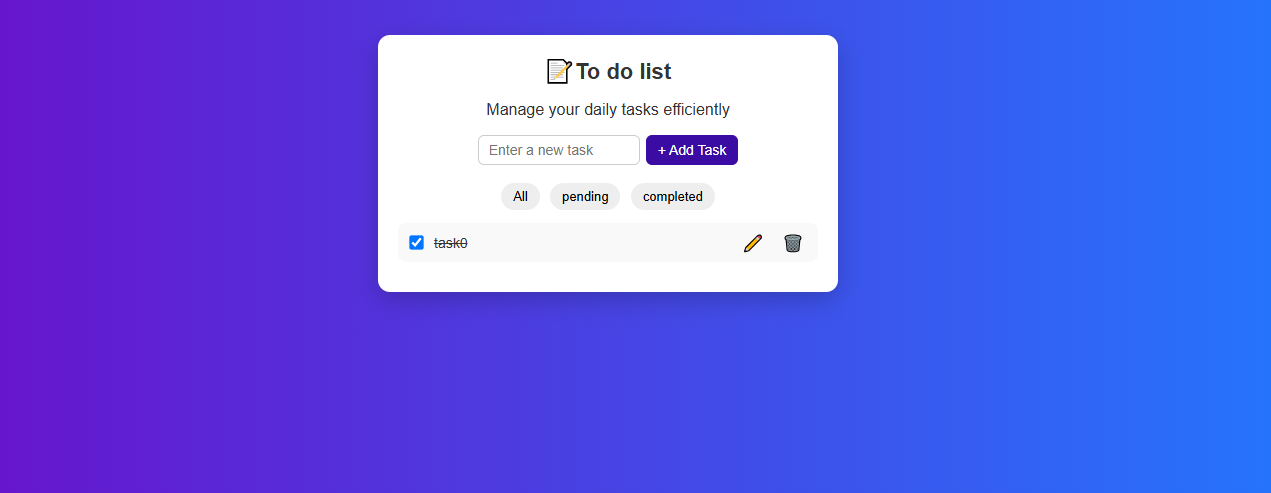
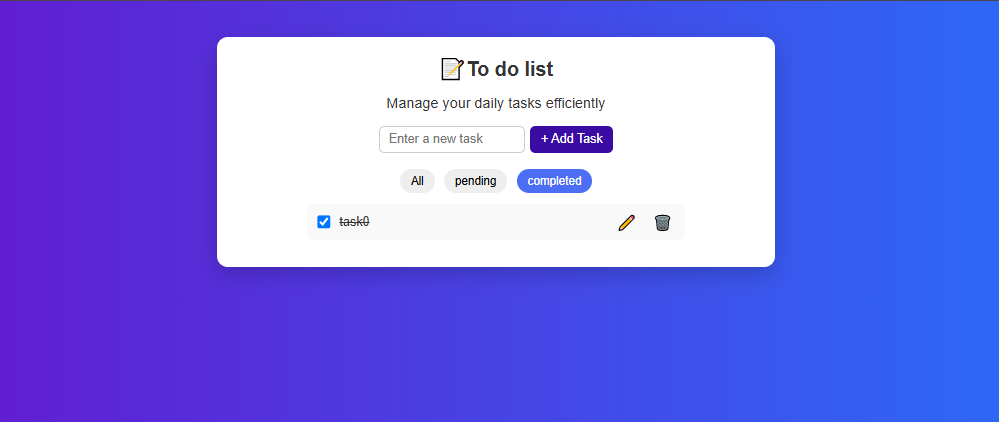
final

Changed region(s): [[0.2172, 0.0616, 0.7758, 0.6777], [0.3724, 0.1232, 0.6206, 0.4621]]

diff --git a/script.js b/script.js
@@ -1,101 +1,120 @@
-let tasks = [];
+let tasks = JSON.parse(localStorage.getItem('tasks')) || [];
 let filter = 'all';
 
+function saveTasks() {
+  localStorage.setItem('tasks', JSON.stringify(tasks));
+}
+
 function addtask() {
-    const input = document.getElementById('task-input');
-    const taskText = input.value.trim();
-    if (taskText) {
-        tasks.push({ text: taskText, completed: false });
-        input.value = "";
-        renderTasks();
-    }
+  const input = document.getElementById('task-input');
+  const taskText = input.value.trim();
+  if (taskText) {
+    tasks.push({ text: taskText, completed: false });
+    input.value = "";
+    saveTasks();
+    renderTasks();
+  }
 }
 
 function toggleTask(index) {
-    tasks[index].completed = !tasks[index].completed;
-    renderTasks();
+  tasks[index].completed = !tasks[index].completed;
+  saveTasks();
+  renderTasks();
 }
 
 function deleteTask(index) {
-    tasks.splice(index, 1);
-    renderTasks();
+  tasks.splice(index, 1);
+  saveTasks();
+  renderTasks();
 }
 
 function editTask(index) {
-    const newText = prompt("Edit task:", tasks[index].text);
-    if (newText != null) {
-        tasks[index].text = newText.trim();
-        renderTasks();
-    }
+  const newText = prompt("Edit task:", tasks[index].text);
+  if (newText != null) {
+    tasks[index].text = newText.trim();
+    saveTasks();
+    renderTasks();
+  }
 }
 
 function filterTasks(type) {
-    filter = type;
-    renderTasks();
+  filter = type;
+  setActiveFilter(type);
+  renderTasks();
+}
+
+function setActiveFilter(activeType) {
+  const buttons = document.querySelectorAll(".filters button");
+  buttons.forEach(button => {
+    button.classList.remove("active");
+    if (button.textContent.toLowerCase() === activeType) {
+      button.classList.add("active");
+    }
+  });
 }
 
 function renderTasks() {
-    const list = document.getElementById("task-list");
-    list.innerHTML = "";
+  const list = document.getElementById("task-list");
+  list.innerHTML = "";
 
-if (tasks.length === 0) {
+  const filteredTasks = tasks.filter(task => {
+    if (filter === 'all') return true;
+    return filter === 'completed' ? task.completed : !task.completed;
+  });
+
+  if (filteredTasks.length === 0) {
     const li = document.createElement("li");
-    li.textContent = "No task added";
+    let message = "No tasks added.";
+    if (filter === 'pending') message = "No pending tasks.";
+    else if (filter === 'completed') message = "No completed tasks.";
+    li.textContent = message;
     li.style.textAlign = "center";
     li.style.color = "gray";
     list.appendChild(li);
-    document.getElementById("total").textContent = "0";
-    document.getElementById("completed").textContent = "0";
-    document.getElementById("pending").textContent = "0";
-    return;
-}
-
-
-    const filteredTasks = tasks.filter(task => {
-        if (filter === 'all') return true;
-        return filter === 'completed' ? task.completed : !task.completed;
-    });
-
+  } else {
     filteredTasks.forEach((task, i) => {
-        const li = document.createElement("li");
+      const li = document.createElement("li");
 
-        const taskSection = document.createElement("div");
-        taskSection.className = "task-text";
+      const taskSection = document.createElement("div");
+      taskSection.className = "task-text";
 
-        const checkbox = document.createElement('input');
-        checkbox.type = 'checkbox';
-        checkbox.checked = task.completed;
-        checkbox.onclick = () => toggleTask(tasks.indexOf(task));
+      const checkbox = document.createElement('input');
+      checkbox.type = 'checkbox';
+      checkbox.checked = task.completed;
+      checkbox.onclick = () => toggleTask(tasks.indexOf(task));
 
-        const span = document.createElement("span");
-        span.textContent = task.text;
-        if (task.completed) span.style.textDecoration = "line-through";
+      const span = document.createElement("span");
+      span.textContent = task.text;
+      if (task.completed) span.style.textDecoration = "line-through";
 
-        taskSection.appendChild(checkbox);
-        taskSection.appendChild(span);
+      taskSection.appendChild(checkbox);
+      taskSection.appendChild(span);
 
-        const actions = document.createElement("div");
-        actions.className = "actions";
+      const actions = document.createElement("div");
+      actions.className = "actions";
 
-        const editButton = document.createElement("button");
-        editButton.innerHTML = "✏";
-        editButton.onclick = () => editTask(tasks.indexOf(task));
+      const editButton = document.createElement("button");
+      editButton.innerHTML = "✏";
+      editButton.onclick = () => editTask(tasks.indexOf(task));
 
-        const deleteButton = document.createElement("button");
-        deleteButton.innerHTML = "🗑";
-        deleteButton.onclick = () => deleteTask(tasks.indexOf(task));
+      const deleteButton = document.createElement("button");
+      deleteButton.innerHTML = "🗑";
+      deleteButton.onclick = () => deleteTask(tasks.indexOf(task));
 
-        actions.appendChild(editButton);
-        actions.appendChild(deleteButton);
+      actions.appendChild(editButton);
+      actions.appendChild(deleteButton);
 
-        li.appendChild(taskSection);
-        li.appendChild(actions);
-        list.appendChild(li);
+      li.appendChild(taskSection);
+      li.appendChild(actions);
+      list.appendChild(li);
     });
+  }
 
-    document.getElementById("total").textContent = tasks.length;
-    document.getElementById("completed").textContent = tasks.filter(t => t.completed).length;
-    document.getElementById("pending").textContent = tasks.filter(t => !t.completed).length;
+  document.getElementById("total").textContent = tasks.length;
+  document.getElementById("completed").textContent = tasks.filter(t => t.completed).length;
+  document.getElementById("pending").textContent = tasks.filter(t => !t.completed).length;
 }
 
+// initial load
+setActiveFilter(filter);
 renderTasks();

diff --git a/style.css b/style.css
@@ -11,7 +11,7 @@ body {
   margin: 40px auto;
   background: #fff;
   border-radius: 12px;
-  padding: 20px;
+  padding:  20px 100px;
   box-shadow: 0 8px 24px rgba(0, 0, 0, 0.2);
 }
 
@@ -45,6 +45,11 @@ h1 {
   border-radius: 6px;
   cursor: pointer;
 }
+.filters button.active {
+  background-color: #4c6ef5;
+  color: white;
+}
+
 
 .stats {
   display: flex;

diff --git a/README.md b/README.md
@@ -54,11 +54,16 @@ Completed tasks appear with a line-through style or a different color (depending
 
 ![Complete Task](complete.png)
 
+### 6 Filter a Task
+![Complete Task](filter.png)
+
+
 
 ## Technologies Used
 
 - HTML5
 - CSS3
 - JavaScript
+- LocalStorage for persistence
 ## Author
  Fenet Damena
